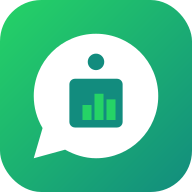
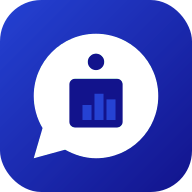
Se agrego un filtro para no ingresar 2 veces el mismo numero de forma manual, actualizar los datos ingresados por excel y cambio el color

diff --git a/src/contactos/ImportarExcel.jsx b/src/contactos/ImportarExcel.jsx
@@ -1,7 +1,8 @@
 // Carga masiva de clientes desde un archivo Excel (.xlsx).
 // 1) Se elige el archivo y se lee en el navegador. 2) Se muestra una vista previa con las
-// filas válidas e inválidas. 3) Al confirmar, se envían al servidor, que además salta los
-// duplicados (teléfono o DNI ya cargados) y devuelve el detalle de lo que no pudo cargar.
+// filas válidas e inválidas. 3) Al confirmar, se envían al servidor: los teléfonos nuevos se
+// cargan, los que ya estaban agendados actualizan su monto a cobrar, y devuelve el detalle
+// de lo que no pudo cargar (DNI repetido, teléfono agendado por otro usuario, etc.).
 import { useRef, useState } from "react";
 import { readSheet } from "read-excel-file/browser";
 
@@ -164,7 +165,8 @@ export default function ImportarExcel({ importar }) {
             <a href="/plantilla-clientes.xlsx" download>
               Descargar plantilla
             </a>
-            . Los clientes que ya estén cargados (mismo teléfono o DNI) se saltean.
+            . Si el teléfono ya está agendado, se <b>actualiza su monto a cobrar</b>; si lo tiene
+            otro usuario o el DNI está repetido, esa fila no se carga.
           </small>
 
           <input
@@ -219,7 +221,13 @@ export default function ImportarExcel({ importar }) {
           {resultado && (
             <div className="importar-preview">
               <p>
-                ✅ Se cargaron <b>{resultado.importados}</b> cliente(s).
+                ✅ Se cargaron <b>{resultado.importados}</b> cliente(s) nuevo(s).
+                {resultado.actualizados > 0 && (
+                  <> Se actualizó el monto de <b>{resultado.actualizados}</b> cliente(s) que ya estaban.</>
+                )}
+                {resultado.sinCambios > 0 && (
+                  <> {resultado.sinCambios} ya estaban con ese mismo monto.</>
+                )}
                 {resultado.omitidos > 0 && <> No se cargaron {resultado.omitidos}:</>}
               </p>
               {resultado.errores?.length > 0 && (

diff --git a/src/App.css b/src/App.css
@@ -1,8 +1,10 @@
 /* src/App.css — estructura general de la app (PC y móvil) */
 
 :root {
-  --wa-verde-oscuro: #075e54;
-  --wa-verde: #25d366;
+  --wa-azul-oscuro: #080387;
+  --wa-azul-degradado: linear-gradient(#03013c, #080387);
+  --wa-azul: #2563eb;
+  --wa-azul-claro: #60a5fa;
   --wa-fondo: #f0f2f5;
   --wa-borde: #e4e6e8;
   --wa-texto-suave: #667781;
@@ -16,7 +18,7 @@
   justify-content: center;
   padding: 20px;
   box-sizing: border-box;
-  background: linear-gradient(180deg, var(--wa-verde-oscuro) 0 220px, var(--wa-fondo) 220px);
+  background: linear-gradient(180deg, #03013c 0, #080387 220px, var(--wa-fondo) 220px);
 }
 .login-card {
   width: 100%;
@@ -30,7 +32,7 @@
 
 /* ---------- Botones reutilizados (Login, Clave, Usuarios) ---------- */
 .button-primary {
-  background-color: #25d366;
+  background-color: #2563eb;
   color: #fff;
   border: none;
   padding: 12px 20px;
@@ -42,10 +44,10 @@
   transition: background 0.2s;
 }
 .button-primary:hover {
-  background-color: #20ba59;
+  background-color: #1d4ed8;
 }
 .button-primary:disabled {
-  background-color: #a5eba5;
+  background-color: #a8c0f5;
   cursor: not-allowed;
 }
 
@@ -74,7 +76,7 @@
   gap: 16px;
   padding: 0 20px;
   min-height: 56px;
-  background: var(--wa-verde-oscuro);
+  background: var(--wa-azul-degradado);
   color: #fff;
 }
 .app-brand {
@@ -107,7 +109,7 @@
 }
 .app-tab.activo {
   color: #fff;
-  border-bottom-color: var(--wa-verde);
+  border-bottom-color: var(--wa-azul-claro);
 }
 .app-actions {
   margin-left: auto;
@@ -275,7 +277,7 @@
     line-height: 1;
   }
   .app-bottom-btn.activo {
-    color: var(--wa-verde-oscuro);
+    color: var(--wa-azul-oscuro);
   }
 
   /* Con un chat abierto en el celular: pantalla completa, como WhatsApp */

diff --git a/src/components/bandejaEntrada.css b/src/components/bandejaEntrada.css
@@ -79,7 +79,7 @@
   font-size: 14px;
 }
 .wa-buscador input:focus {
-  outline: 2px solid #25d366;
+  outline: 2px solid #2563eb;
 }
 .wa-lista {
   flex: 1;
@@ -111,8 +111,8 @@
   background: #f5f6f6;
 }
 .wa-contacto.activo {
-  background: #e7f6ee;
-  box-shadow: inset 4px 0 0 #25d366;
+  background: #e8efff;
+  box-shadow: inset 4px 0 0 #2563eb;
 }
 .wa-avatar {
   flex: 0 0 auto;
@@ -168,7 +168,7 @@
   min-width: 20px;
   padding: 1px 7px;
   border-radius: 999px;
-  background: #25d366;
+  background: #2563eb;
   color: #fff;
   font-size: 12px;
   font-weight: bold;
@@ -348,7 +348,7 @@
 }
 .wa-msg--out {
   align-self: flex-end;
-  background: #d9fdd3;
+  background: #dbe7ff;
   border-top-right-radius: 2px;
 }
 .wa-msg.seleccionado {
@@ -454,7 +454,7 @@
   box-sizing: border-box;
 }
 .wa-composer textarea:focus {
-  outline: 2px solid #25d366;
+  outline: 2px solid #2563eb;
 }
 .wa-composer-enviar {
   flex: 0 0 auto;
@@ -462,15 +462,15 @@
   height: 42px;
   padding: 0;
   border-radius: 50%;
-  background: #25d366;
+  background: #2563eb;
   color: #fff;
   font-size: 18px;
 }
 .wa-composer-enviar:hover:not(:disabled) {
-  background: #1ebd58;
+  background: #1d4ed8;
 }
 .wa-composer-enviar:disabled {
-  background: #a5d9bb;
+  background: #a8c0f5;
   cursor: not-allowed;
 }
 .wa-composer-aviso {
@@ -518,7 +518,7 @@
   .wa-chat-cabecera {
     padding: 8px 10px;
     gap: 8px;
-    background: #075e54;
+    background: #080387;
     border-bottom: none;
   }
   .wa-chat-cabecera .wa-chat-titulo strong,

diff --git a/src/admin/Usuarios.css b/src/admin/Usuarios.css
@@ -5,7 +5,7 @@
 .usr-inactivo { opacity: 0.6; }
 .usr-top { display: flex; justify-content: space-between; align-items: center; gap: 8px; }
 .usr-badges { display: flex; gap: 6px; }
-.usr-badge { font-size: 12px; background: #e8f5e9; color: #2e7d32; border-radius: 999px; padding: 2px 8px; }
+.usr-badge { font-size: 12px; background: #e8efff; color: #2563eb; border-radius: 999px; padding: 2px 8px; }
 .usr-rojo { background: #fef3f2; color: #b42318; }
 .usr-detalle { color: #666; }
 .usr-acciones { display: flex; gap: 8px; flex-wrap: wrap; }
@@ -16,7 +16,7 @@
 .usr-nuevo { background: #fff; border: 1px solid #ddd; border-radius: 10px; padding: 12px; }
 .usr-check { display: flex; align-items: center; gap: 8px; font-size: 14px; }
 .usr-error { color: #b42318; background: #fef3f2; border: 1px solid #fecdca; border-radius: 8px; padding: 8px; margin: 0; font-size: 14px; }
-.usr-ok { color: #2e7d32; margin: 0; font-size: 14px; }
+.usr-ok { color: #2563eb; margin: 0; font-size: 14px; }
 
 .usr-peligro { color: #b42318 !important; border-color: #fecdca !important; }
 .usr-confirmar { display: flex; flex-direction: column; gap: 6px; background: #fef3f2; border: 1px solid #fecdca; border-radius: 8px; padding: 10px; }

diff --git a/src/components/CambiarPassword.jsx b/src/components/CambiarPassword.jsx
@@ -45,7 +45,7 @@ export function CambiarPassword() {
       <input style={campo} type="password" placeholder="Contraseña actual" autoComplete="current-password" value={actual} onChange={(e) => setActual(e.target.value)} />
       <input style={campo} type="password" placeholder="Contraseña nueva (mín. 6)" autoComplete="new-password" value={nueva} onChange={(e) => setNueva(e.target.value)} />
       <input style={campo} type="password" placeholder="Repetir contraseña nueva" autoComplete="new-password" value={repetir} onChange={(e) => setRepetir(e.target.value)} />
-      {mensaje && <small style={{ color: mensaje.ok ? '#2e7d32' : '#b42318' }}>{mensaje.texto}</small>}
+      {mensaje && <small style={{ color: mensaje.ok ? '#2563eb' : '#b42318' }}>{mensaje.texto}</small>}
       <button type="submit" className="button-primary" disabled={guardando || !actual || !nueva || !repetir}>
         {guardando ? 'Guardando…' : 'Guardar'}
       </button>

diff --git a/src/cobrar/Cobrar.jsx b/src/cobrar/Cobrar.jsx
@@ -156,11 +156,11 @@ export default function Cobrar() {
         <div style={{ margin: 0, fontSize: "13px", lineHeight: "1.4", color: "#444" }}>
           <p style={{ margin: "0 0 8px 0" }}>
             Hola{" "}
-            <strong style={{ color: "#28a745" }}>
+            <strong style={{ color: "#2563eb" }}>
               {"{Nombre agendado}"}
             </strong>
             . Le escribimos desde{" "}
-            <strong style={{ color: "#28a745" }}>{nombreNegocio.trim() || "{{2}}"}</strong> para informarle que ya se encuentra disponible el resumen de su cuenta correspondiente al consumo del mes, por un monto de{" "}
+            <strong style={{ color: "#2563eb" }}>{nombreNegocio.trim() || "{{2}}"}</strong> para informarle que ya se encuentra disponible el resumen de su cuenta correspondiente al consumo del mes, por un monto de{" "}
             <strong style={{ color: "#d9534f" }}>${"{Monto a cobrar}"}</strong>.
           </p>
 

diff --git a/src/invitar/Invitar.jsx b/src/invitar/Invitar.jsx
@@ -192,9 +192,9 @@ export default function Invitar() {
 
         <div style={{ margin: 0, fontSize: "13px", lineHeight: "1.4", color: "#444" }}>
           <p style={{ margin: "0 0 8px 0" }}>
-            Hola <strong style={{ color: "#28a745" }}>{"{Nombre agendado}"}</strong>, te saluda{" "}
-            <strong style={{ color: "#28a745" }}>{textoAdicional.trim() || "{{2}}"}</strong> de{" "}
-            <strong style={{ color: "#28a745" }}>{nombreNegocio.trim() || "{{3}}"}</strong>. 👋
+            Hola <strong style={{ color: "#2563eb" }}>{"{Nombre agendado}"}</strong>, te saluda{" "}
+            <strong style={{ color: "#2563eb" }}>{textoAdicional.trim() || "{{2}}"}</strong> de{" "}
+            <strong style={{ color: "#2563eb" }}>{nombreNegocio.trim() || "{{3}}"}</strong>. 👋
           </p>
 
           <p style={{ margin: "0 0 8px 0" }}>

diff --git a/src/contactos/Contactos.css b/src/contactos/Contactos.css
@@ -81,7 +81,7 @@
 }
 
 .contacto-monto {
-  color: #28a745;
+  color: #2563eb;
   font-weight: bold;
   font-size: 15px;
 }
@@ -93,7 +93,7 @@
 
 .btn-whatsapp {
   padding: 8px 14px;
-  background-color: #25d366;
+  background-color: #2563eb;
   color: white;
   border: none;
   border-radius: 6px;
@@ -106,7 +106,7 @@
 }
 
 .btn-whatsapp:hover {
-  background-color: #1ebd58;
+  background-color: #1d4ed8;
 }
 
 .btn-eliminar {
@@ -239,8 +239,8 @@
 }
 
 .badge-respondio {
-  background: #d4edda;
-  color: #155724;
+  background: #dbe7ff;
+  color: #1e3a8a;
 }
 
 .badge-neutro {

diff --git a/src/components/BotIA.css b/src/components/BotIA.css
@@ -1,4 +1,4 @@
-/* Interruptor del bot de IA (vive en la cabecera verde) */
+/* Interruptor del bot de IA (vive en la cabecera azul) */
 .bot-ia {
   position: relative;
   display: flex;
@@ -15,7 +15,7 @@
   color: #667781;
 }
 .bot-ia-estado.on {
-  color: #1a8f4a;
+  color: #2563eb;
   font-weight: bold;
 }
 .bot-ia-switch {
@@ -28,7 +28,7 @@
   transition: background 0.2s;
 }
 .bot-ia-switch.on {
-  background: #25d366;
+  background: #2563eb;
 }
 .bot-ia-switch:disabled {
   opacity: 0.5;

diff --git a/src/invitar/Invitar.css b/src/invitar/Invitar.css
@@ -85,7 +85,7 @@
 }
 
 .btn-enviar-cobros {
-  background-color: #28a745;
+  background-color: #2563eb;
   color: white;
   border: none;
   padding: 12px;
@@ -99,7 +99,7 @@
 }
 
 .btn-enviar-cobros:hover {
-  background-color: #218838;
+  background-color: #1d4ed8;
 }
 
 .usuarios-section h3 {
@@ -187,8 +187,8 @@
 }
 
 .invitar-badge-invitado {
-  background: #d4edda;
-  color: #155724;
+  background: #dbe7ff;
+  color: #1e3a8a;
 }
 
 .invitar-badge-pendiente {

diff --git a/index.html b/index.html
@@ -6,7 +6,7 @@
 <link rel="manifest" href="/manifest.json" />
     <link rel="icon" type="image/png" href="/favicon.png" />
     <link rel="apple-touch-icon" href="/icon-192.png" />
-    <meta name="theme-color" content="#25D366" />
+    <meta name="theme-color" content="#080387" />
     <meta name="viewport" content="width=device-width, initial-scale=1.0" />
     <title>frontend</title>
   </head>

diff --git a/src/components/BotonInstalar.jsx b/src/components/BotonInstalar.jsx
@@ -37,7 +37,7 @@ export const BotonInstalar = () => {
     <button
       onClick={handleInstalarClick}
       style={{
-        backgroundColor: '#25D366', // Verde estilo WhatsApp
+        backgroundColor: '#2563eb', // Azul
         color: '#fff',
         padding: '7px 12px',
         borderRadius: '999px',
